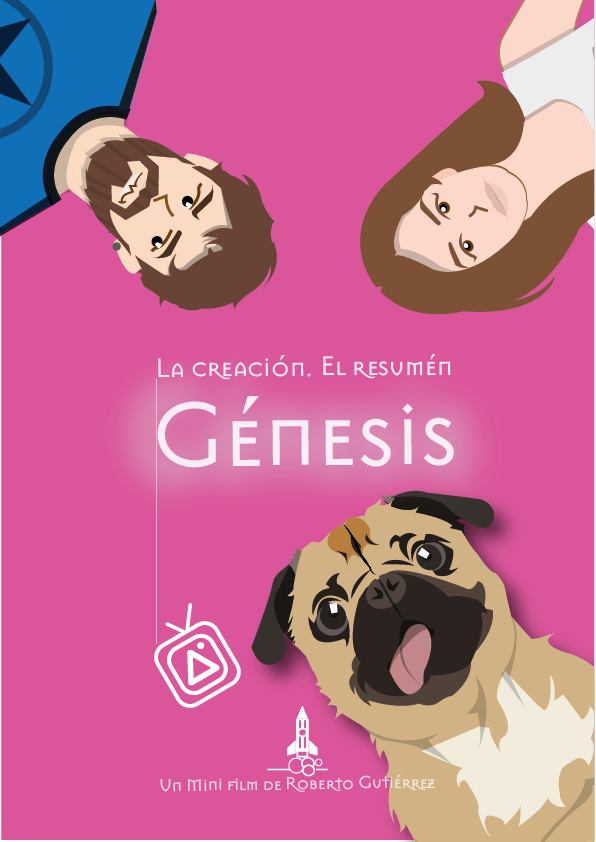
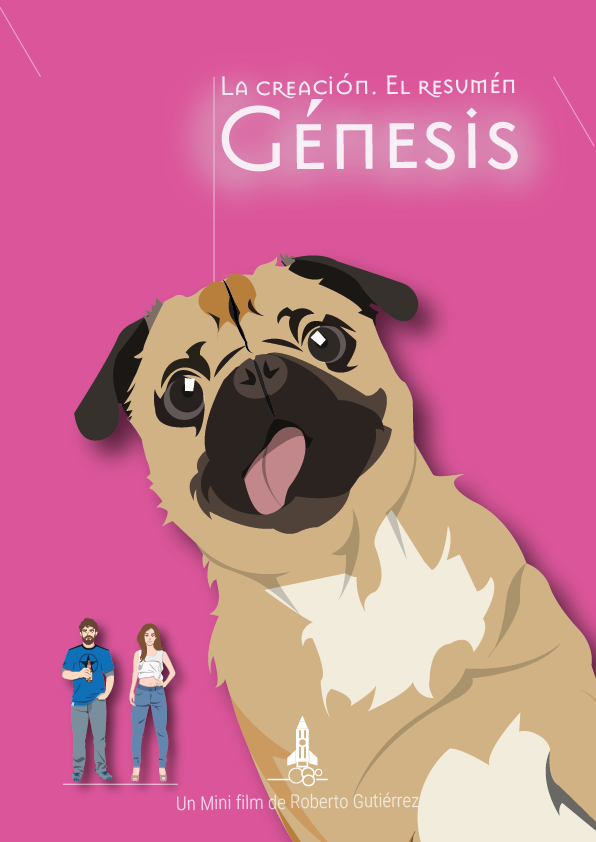
Nuevas versiones de los carteles de Génesis y Tesla

diff --git a/css/master.css b/css/master.css
@@ -1552,10 +1552,7 @@ header h2 {
   height: auto;
 }
 
-#portada figure img {
-  height: 95vh;
-  width: auto;
-}
+
 
 #proyecto_actual {
   height: auto;
